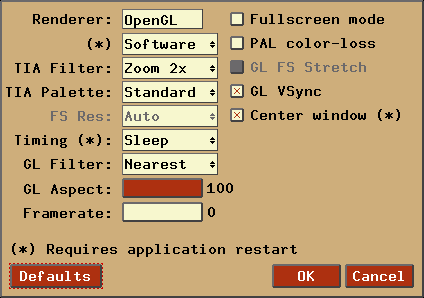
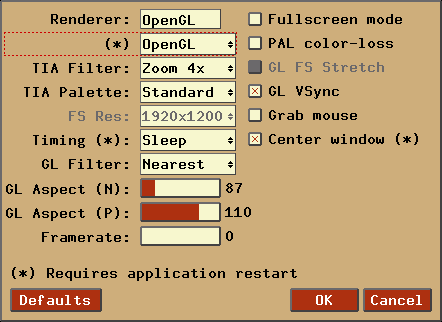
Added '-gl_aspectn' and 'gl_aspectp' commandline arguments (and associated UI items) to set the aspect ratio to use in NTSC and PAL modes.  This replaces the '-gl_aspect' setting.
Hold-select/reset/button0 now work from the UI.

Grabmouse can now be set in the UI.

Changed status of the fix for ATI/OpenGL/sound from fixed to workaround.
Sound will work for the first ROM, but not for subsequent ones.  This
improves on the previous behaviour, where sound didn't work at all.

Bumped version to 2.7.1.

Changed region(s): [[0.0, 0.0, 0.9505, 0.7852], [0.0, 0.8154, 0.9811, 0.9966], [0.0, 0.151, 0.0307, 0.1812]]

diff --git a/stella/docs/index.html b/stella/docs/index.html
@@ -607,11 +607,12 @@
 		</tr>
 
 		<tr>
-			<td><pre>-gl_aspect &lt;number&gt;</pre></td>
+			<td><pre>-gl_aspectn &lt;number&gt;<br>-gl_aspectp &lt;number&gt;</pre></td>
 			<td>OpenGL mode only. Specify the amount (as a percentage) to scale the
-				image width. Since many video modes do not use square pixels, you can
-				reduce width until the pixels appear square.  Allowable values are
-				80 - 120; I find 85 - 90 gives the most authentic look.</td>
+				TIA image width in NTSC and PAL mode. Since many video modes do not
+				use square pixels, you can reduce width until the pixels appear square.
+				Allowable values are 80 - 120; I find 85 - 90 gives the most authentic
+				look for NTSC, and 105 - 110 for PAL.</td>
 		</tr>
 
 		<tr>
@@ -1065,12 +1066,14 @@
 					<tr><td>FS Res</td><td>resolution for fullscreen mode</td><td>-fullres</td></tr>
 					<tr><td>Timing (*)</td><td>how to wait between frames (requires restart)</td><td>-timing</td></tr>
 					<tr><td>GL Filter</td><td>OpenGL filter mode</td><td>-gl_filter</td></tr>
-					<tr><td>GL Aspect</td><td>OpenGL width of window</td><td>-gl_aspect</td></tr>
+					<tr><td>GL Aspect (N)</td><td>OpenGL width of TIA image in NTSC mode</td><td>-gl_aspectn</td></tr>
+					<tr><td>GL Aspect (P)</td><td>OpenGL width of TIA image in PAL mode</td><td>-gl_aspectp</td></tr>
 					<tr><td>Framerate</td><td>frames per second in emulation mode</td><td>-framerate</td></tr>
 					<tr><td>Fullscreen mode</td><td>self-explanatory</td><td>-fullscreen</td></tr>
 					<tr><td>PAL color-loss</td><td>use PAL color-loss effect</td><td>-colorloss</td></tr>
 					<tr><td>GL FS Stretch</td><td>stretch fullscreen OpenGL in emulation mode</td><td>-gl_fsmax</td></tr>
 					<tr><td>GL VSync</td><td>enable OpenGL vertical synchronization</td><td>-gl_vsync</td></tr>
+					<tr><td>Grab mouse</td><td>keep mouse in SDL window</td><td>-grabmouse</td></tr>
 					<tr><td>Center window (*)</td><td>attempt to center SDL window (requires restart)</td><td>-center</td></tr>
 				</table>
 			</td>
